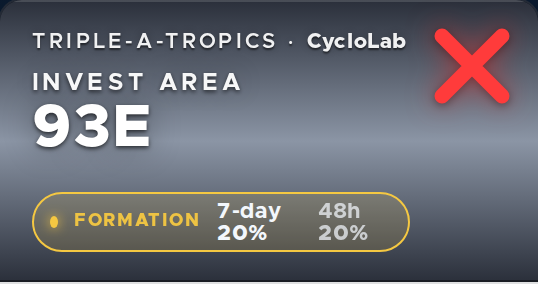
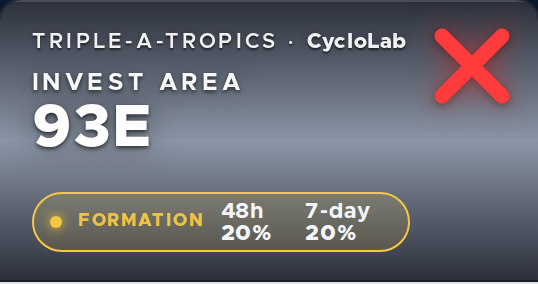
fix(cyclolab): formation pill - 48h left / 7-day right, identical text, circular dot
Andrew's review notes on the invest formation pill: window order swapped (48h on the
left, 7-day on the right); both windows now styled identically (dropped the 48h
de-emphasis); the leading dot is forced circular (flex:0 0 auto so the flex row can't
squish it to an oval).

Changed region(s): [[0.0892, 0.7042, 0.5353, 0.8451], [0.5651, 0.7042, 0.684, 0.8451]]

diff --git a/cyclolab_shell.py b/cyclolab_shell.py
@@ -254,12 +254,12 @@ HTML_TEMPLATE = r"""<!doctype html>
     border: 1px solid currentColor; width: fit-content; }
   .formation-pill .fp-eyebrow { font-size: 9px; font-weight: 800;
     letter-spacing: 0.09em; text-transform: uppercase; opacity: 0.95; }
+  /* both windows (48h left, 7-day right) styled IDENTICALLY */
   .formation-pill .fp-win { color: #f3f7fc; font-weight: 700;
     font-variant-numeric: tabular-nums; }
   .formation-pill .fp-win b { font-weight: 800; }
-  .formation-pill .fp-48 { opacity: 0.72; }
-  .formation-pill .fp-dot { width: 6px; height: 6px; border-radius: 50%;
-    background: currentColor; box-shadow: 0 0 6px currentColor; }
+  .formation-pill .fp-dot { flex: 0 0 auto; width: 6px; height: 6px;
+    border-radius: 50%; background: currentColor; box-shadow: 0 0 6px currentColor; }
   .formation-pill[data-level="low"]    { color: #f5c842; background: rgba(245,200,66,0.14); }
   .formation-pill[data-level="medium"] { color: #ff9a4d; background: rgba(255,140,61,0.16); }
   .formation-pill[data-level="high"]   { color: #ff6b6b; background: rgba(255,77,77,0.18); }
@@ -1735,8 +1735,8 @@ HTML_TEMPLATE = r"""<!doctype html>
         pill.setAttribute("data-level", f.level || "low");
         pill.innerHTML = '<span class="fp-dot"></span>' +
           '<span class="fp-eyebrow">Formation</span>' +
-          '<span class="fp-win">7-day <b>' + p7 + '</b></span>' +
-          '<span class="fp-win fp-48">48h <b>' + p48 + '</b></span>';
+          '<span class="fp-win">48h <b>' + p48 + '</b></span>' +
+          '<span class="fp-win">7-day <b>' + p7 + '</b></span>';
         pill.hidden = false;
       });
   }